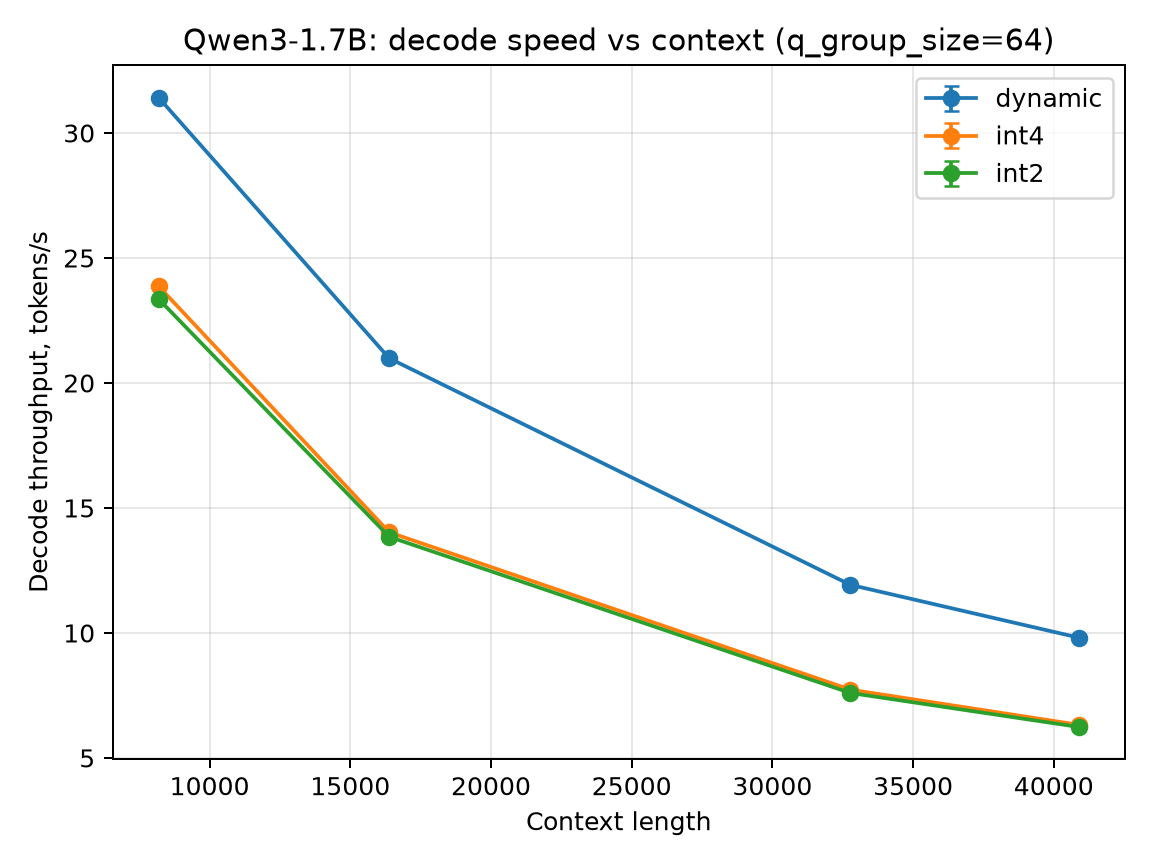
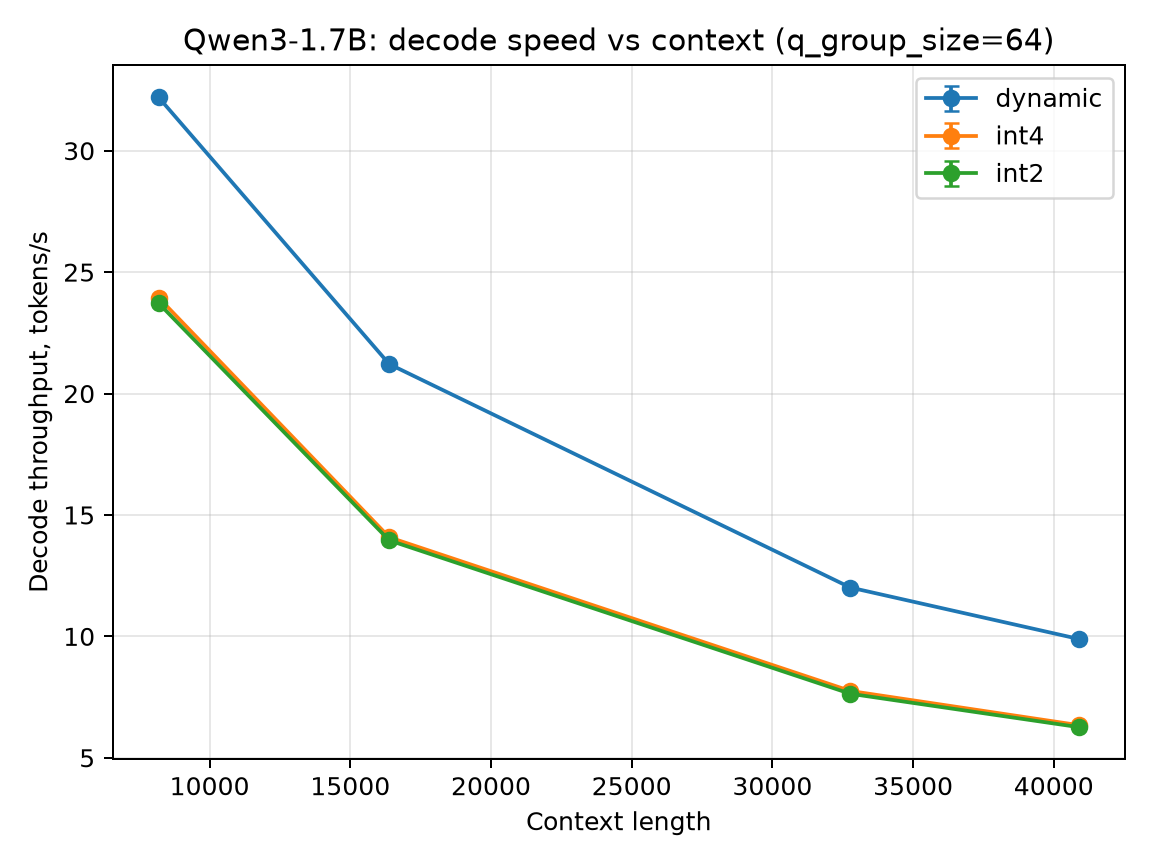
Синхронизация финальных графиков с canonical performance данными

diff --git a/src/analyze_final.py b/src/analyze_final.py
@@ -1142,6 +1142,7 @@ print(OUT / "group_size_quality.csv")
 print(OUT / "group_size_performance.csv")
 print(OUT / "short_context_control.csv")
 print(OUT / "memory_latency_tradeoff.csv")
+print(OUT / "qwen17_final_context_performance.csv")
 
 # ============================================================
 # FIGURE 1: QUALITY VS MODEL SIZE
@@ -1494,9 +1495,120 @@ plt.savefig(
 plt.close()
 
 
-performance17 = performance[
-    performance["model_size"] == "1.7B"
-].copy()
+# Для двух финальных графиков Qwen3-1.7B используем именно
+# final ablation raw-файлы, чтобы значения при 40895 совпадали
+# с canonical memory_latency_tradeoff.csv.
+
+FINAL_CONTEXT_FILES = [
+    (
+        "dynamic",
+        RAW / "final_perf_ablation_qwen3_1.7b_dynamic_4363381.csv",
+    ),
+    (
+        "int4",
+        RAW / "final_perf_ablation_qwen3_1.7b_int4_g64_4363381.csv",
+    ),
+    (
+        "int2",
+        RAW / "final_perf_ablation_qwen3_1.7b_int2_g64_4363381.csv",
+    ),
+]
+
+
+final_context_frames = []
+
+for cache, path in FINAL_CONTEXT_FILES:
+
+    df = load_good(
+        path
+    )
+
+    df["cache"] = cache
+
+    final_context_frames.append(
+        df
+    )
+
+
+performance17_raw = pd.concat(
+    final_context_frames,
+    ignore_index=True,
+)
+
+
+performance17 = (
+    performance17_raw
+    .groupby(
+        [
+            "cache",
+            "context_len",
+        ],
+        as_index=False,
+    )
+    .agg(
+        n=(
+            "repeat",
+            "count",
+        ),
+
+        peak_gpu_gib=(
+            "total_peak_allocated_gib",
+            "mean",
+        ),
+
+        peak_gpu_gib_std=(
+            "total_peak_allocated_gib",
+            "std",
+        ),
+
+        kv_gpu_gib=(
+            "cache_prompt_gpu_gib",
+            "mean",
+        ),
+
+        prefill_sec=(
+            "prefill_sec",
+            "mean",
+        ),
+
+        prefill_sec_std=(
+            "prefill_sec",
+            "std",
+        ),
+
+        decode_tok_s=(
+            "decode_tok_s",
+            "mean",
+        ),
+
+        decode_tok_s_std=(
+            "decode_tok_s",
+            "std",
+        ),
+
+        e2e_sec=(
+            "e2e_sec",
+            "mean",
+        ),
+
+        e2e_sec_std=(
+            "e2e_sec",
+            "std",
+        ),
+    )
+    .sort_values(
+        [
+            "context_len",
+            "cache",
+        ]
+    )
+)
+
+
+performance17.to_csv(
+    OUT / "qwen17_final_context_performance.csv",
+    index=False,
+)
 
 # ============================================================
 # FIGURE 4: GPU MEMORY VS CONTEXT
